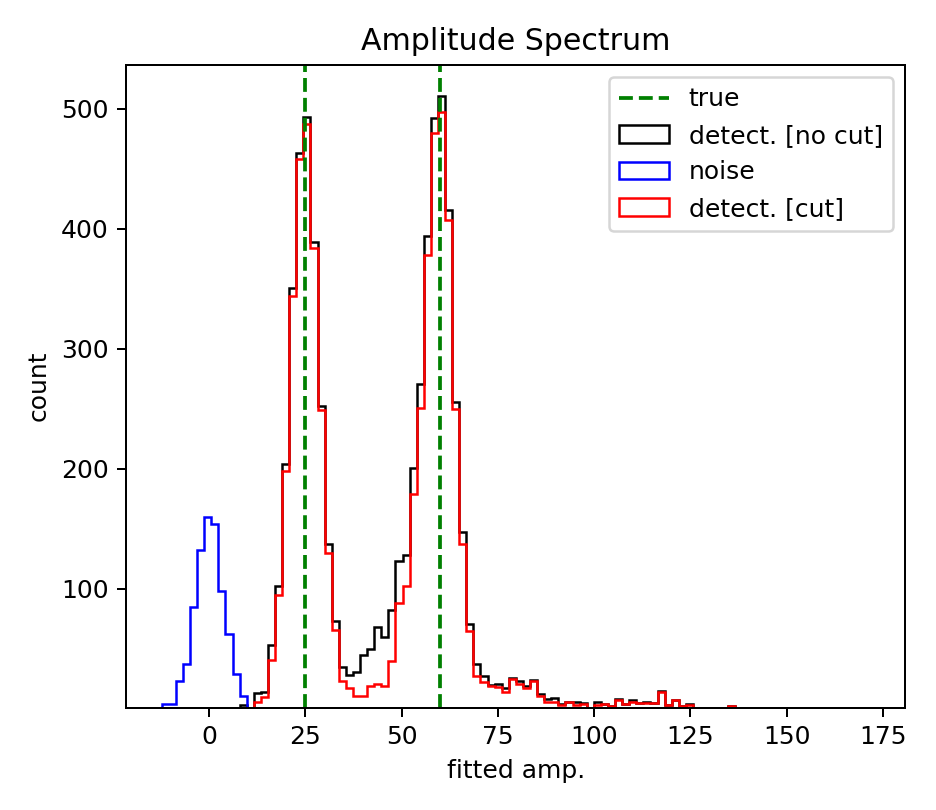
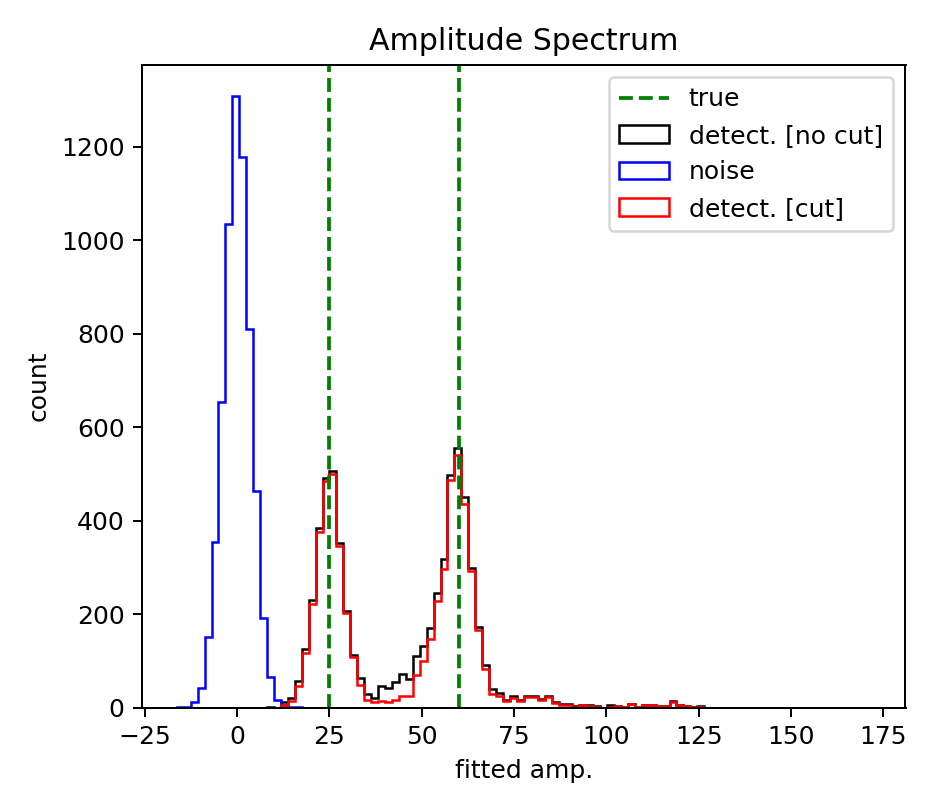
fig

diff --git a/optimal_filtering_analysis.py b/optimal_filtering_analysis.py
@@ -111,7 +111,7 @@ amp2,chi2 = flsa.find_amp(fname,'loc_trigger.npy',mdls,n_win,psd_noise[1],1)
 loc = np.load('loc_trigger.npy')
 data = np.memmap(fname,dtype=np.float32,mode='r')
 noise = flsa.noiseFromLoc(data,loc,n_win)[1] # get noise from data given the loc of trigged events
-ampn,chin = flsa.find_noise_amp(noise,n_win,model,psd_noise[1]) # CHI2 fit of noise events
+ampn,chin = flsa.find_noise_amp(noise,n_win,model,psd_noise[1],amp2.size) # CHI2 fit of noise events
 # FIND BASELINE RESOLUTION
 m, s  = stats.norm.fit(ampn)
 print("baseline resolution = %.2f"%round(s,2))

diff --git a/FLSA.py b/FLSA.py
@@ -234,15 +234,15 @@ def noiseFromLoc(data,loc,n_win):
     mask2[itot] = 0
     return mask,noise,mask2
 
-def find_noise_amp(noise,nwin,model,J):
+def find_noise_amp(noise,nwin,model,J,npulse=1000):
 
     a = np.array([],np.float32)
     chi2 = np.array([],np.float32)
     
     N = noise.size
     nshift = int(N/nwin)
-    if nshift>800:
-        nshift=800
+    if nshift>npulse:
+        nshift=npulse
     istart = 0
     for j in range(nshift): #1
             
